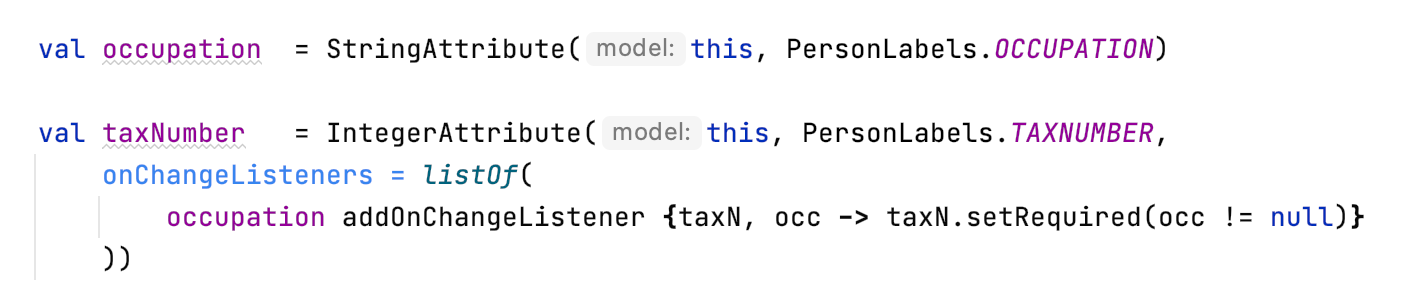
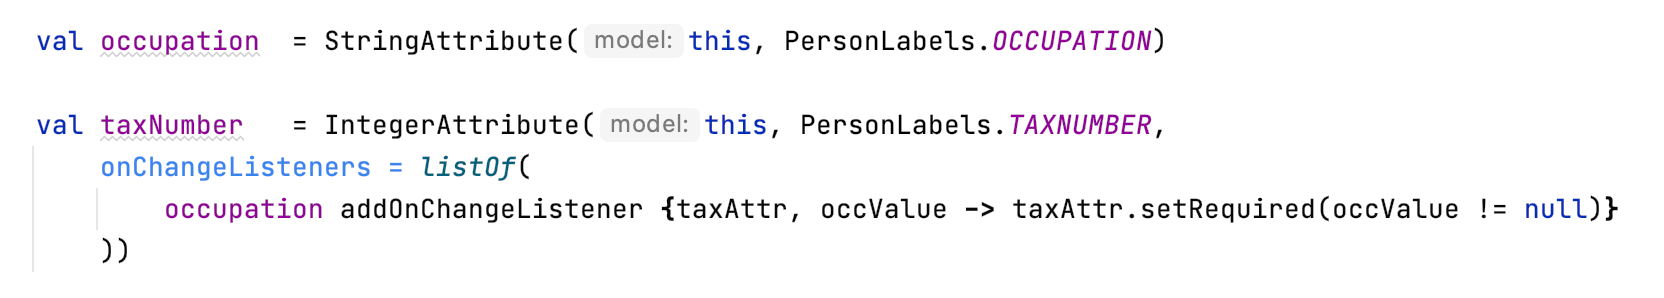
improve ReadMe: Model, Validatoren-Übersicht, improve example PersonModel

diff --git a/demo/src/main/kotlin/demo/personForm/PersonModel.kt b/demo/src/main/kotlin/demo/personForm/PersonModel.kt
@@ -35,8 +35,7 @@ import model.validators.semanticValidators.*
  * @author Louisa Reinger
  * @author Steve Vogel
  */
-class PersonModel : BaseModel(smartphoneOption = true, iLabel = PersonLabels.SIZE) {
-
+class PersonModel : BaseModel(iLabel = PersonLabels.SIZE, smartphoneOption = true) {
 
     init {
         setTitle("Clients")
@@ -52,9 +51,6 @@ class PersonModel : BaseModel(smartphoneOption = true, iLabel = PersonLabels.SIZ
 
     val lastName    = StringAttribute(model = this, label = PersonLabels.LASTNAME,
         required = true)
-
-    val age         = LongAttribute(this, PersonLabels.AGE,
-        validators = listOf(NumberValidator(lowerBound = 0, upperBound = 130)))
 
     val gender      = SelectionAttribute(this, PersonLabels.GENDER,
         possibleSelections = setOf("Man", "Woman", "Other"),
@@ -75,11 +71,20 @@ class PersonModel : BaseModel(smartphoneOption = true, iLabel = PersonLabels.SIZ
             convertImmediately = true
         )))
 
+    val ageValidator = NumberValidator<Long>(lowerBound = 0, upperBound = 130)
+
+    val age         = LongAttribute(this, PersonLabels.AGE,
+        validators = listOf(ageValidator),
+        onChangeListeners = listOf(
+            size addOnChangeListener { _, sizeValue ->
+                ageValidator.overrideNumberValidator(lowerBound = if(sizeValue!! >= 1) 6 else 0)}
+        ))
+
     val occupation  = StringAttribute(this, PersonLabels.OCCUPATION)
 
     val taxNumber   = IntegerAttribute(this, PersonLabels.TAXNUMBER,
         onChangeListeners = listOf(
-            occupation addOnChangeListener {taxN, occ -> taxN.setRequired(occ != null)}
+            occupation addOnChangeListener {taxAttr, occValue -> taxAttr.setRequired(occValue != null)}
         ))
 
     val postCode    = IntegerAttribute(this, PersonLabels.POSTCODE,

diff --git a/demo/src/main/kotlin/demo/playGroundForm/UserDefinedModel.kt b/demo/src/main/kotlin/demo/playGroundForm/UserDefinedModel.kt
@@ -114,7 +114,7 @@ class UserDefinedModel : BaseModel(Labels.stringLabel, smartphoneOption = true){
         required = true,
         onChangeListeners = listOf(
             intAttr addOnChangeListener { a, v -> a.setRequired(v ?: 0 >= 123) },
-            intAttr addOnChangeListener { a, v -> a.setReadOnly(v ?: 0 == 1) },
+            intAttr addOnChangeListener { a, v -> a.setReadOnly(v ?: 0 == 1) }
         )
     )
 

diff --git a/app/src/main/kotlin/ch/model/Model.kt b/app/src/main/kotlin/ch/model/Model.kt
@@ -37,8 +37,8 @@ import kotlinx.serialization.json.Json
  */
 object Model {
 
-//    var mqttBroker    = "broker.hivemq.com"
-    var mqttBroker    = "192.168.0.94" //oftr
+    var mqttBroker    = "broker.hivemq.com"
+//    var mqttBroker    = "192.168.0.94" //oftr
 //    var mqttBroker    = "192.168.178.55" //ifconfig en0 - witt
 //    var mqttBroker    = "192.168.178.26" // inz
     val mainTopic     = "/fhnwforms/"
